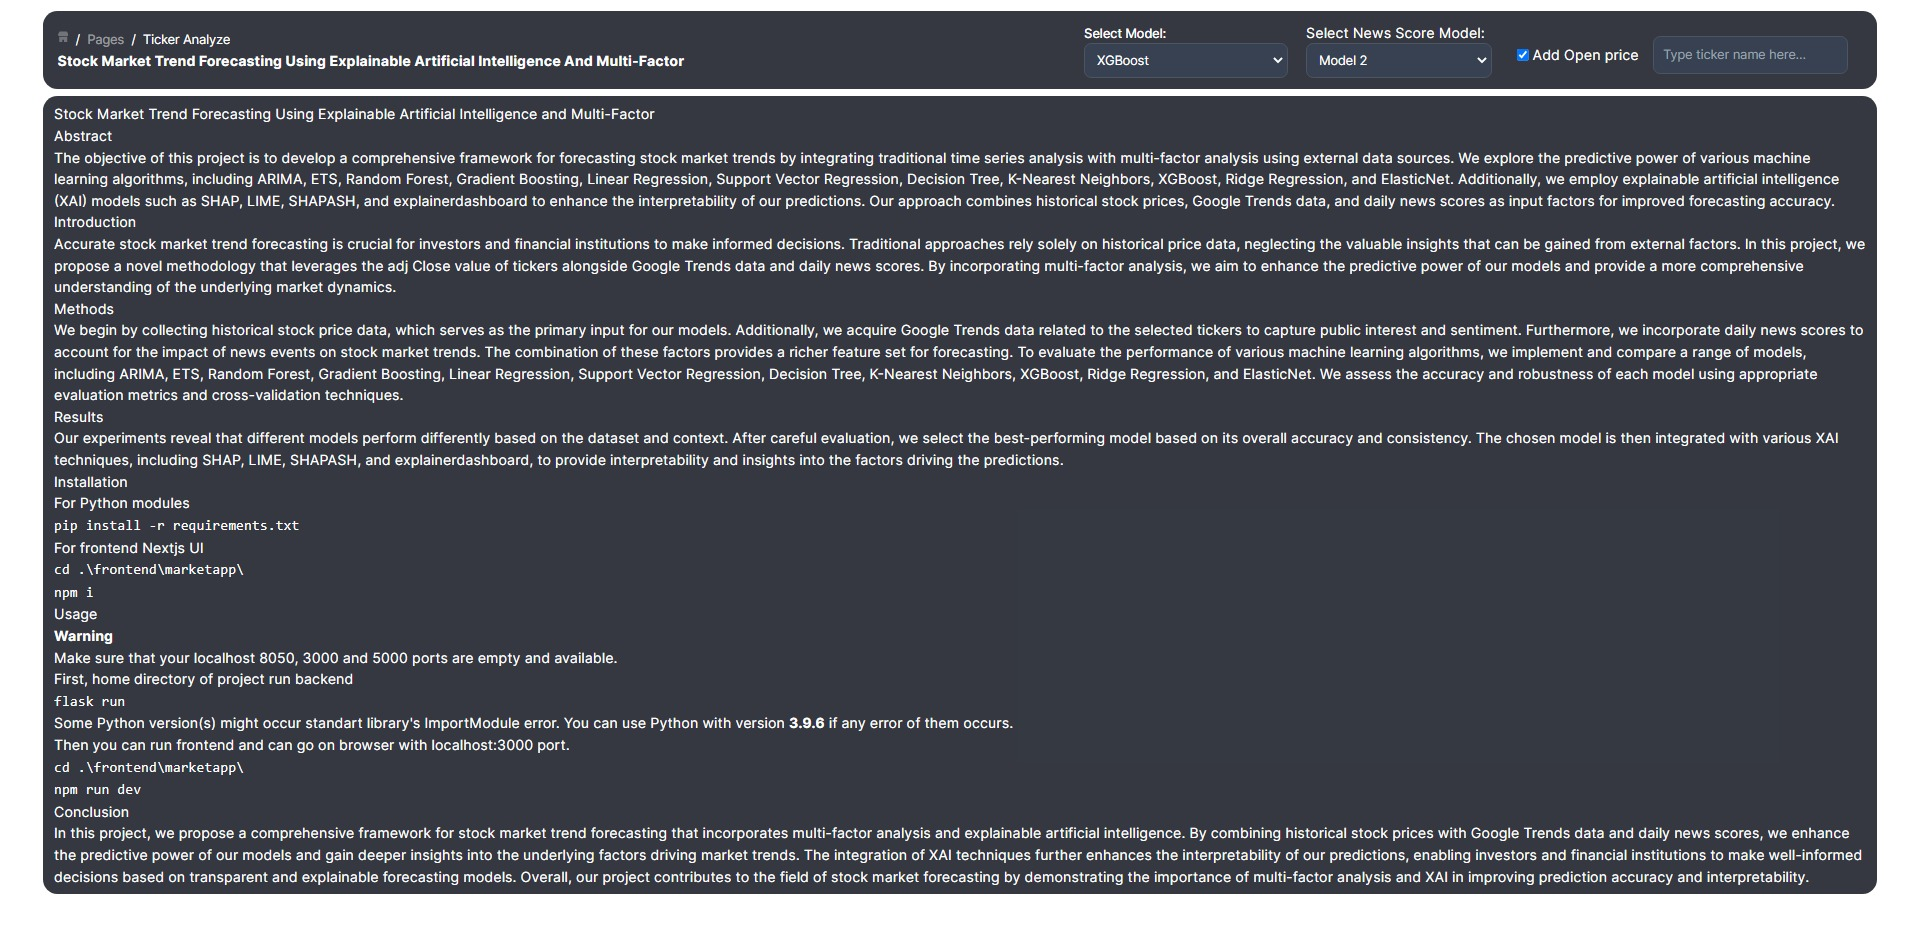
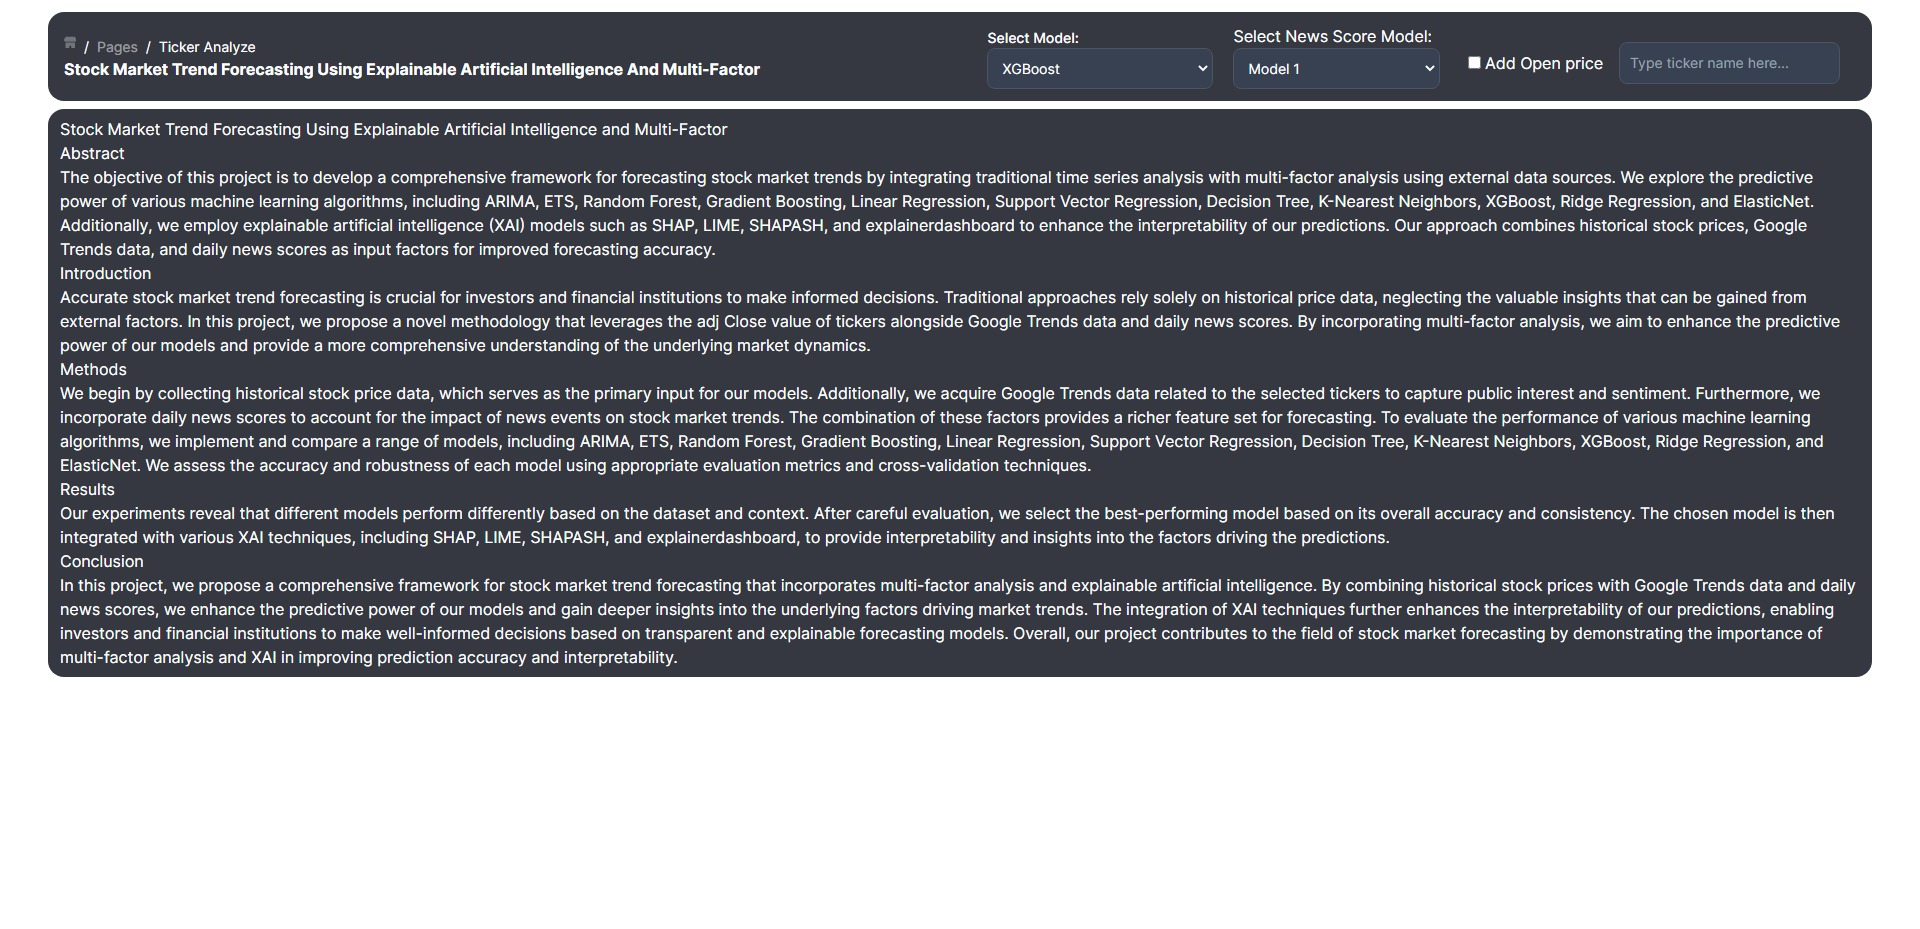
home screen updated

diff --git a/frontend/marketapp/src/app/home.tsx b/frontend/marketapp/src/app/home.tsx
@@ -20,33 +20,7 @@ const Home = () => {
                 To evaluate the performance of various machine learning algorithms, we implement and compare a range of models, including ARIMA, ETS, Random Forest, Gradient Boosting, Linear Regression, Support Vector Regression, Decision Tree, K-Nearest Neighbors, XGBoost, Ridge Regression, and ElasticNet. We assess the accuracy and robustness of each model using appropriate evaluation metrics and cross-validation techniques.</ReactMarkdown>
             <ReactMarkdown>## Results</ReactMarkdown>
             <ReactMarkdown>Our experiments reveal that different models perform differently based on the dataset and context. After careful evaluation, we select the best-performing model based on its overall accuracy and consistency. The chosen model is then integrated with various XAI techniques, including SHAP, LIME, SHAPASH, and explainerdashboard, to provide interpretability and insights into the factors driving the predictions.</ReactMarkdown>
-            <ReactMarkdown>## Installation</ReactMarkdown>
-            <ReactMarkdown>- For Python modules</ReactMarkdown>
-            <ReactMarkdown>```
-                pip install -r requirements.txt
-                ```
-            </ReactMarkdown>
-            <ReactMarkdown>- For frontend Nextjs UI</ReactMarkdown>
-            <ReactMarkdown>```
-                cd .\frontend\marketapp\```</ReactMarkdown><ReactMarkdown>```
-                npm i
-                ```
-            </ReactMarkdown>
-            <ReactMarkdown>## Usage</ReactMarkdown>
-            <ReactMarkdown>**Warning**</ReactMarkdown>
-            <ReactMarkdown>Make sure that your localhost 8050, 3000 and 5000 ports are empty and available.</ReactMarkdown>
-            <ReactMarkdown>- First, home directory of project run backend</ReactMarkdown>
-            <ReactMarkdown>```
-                flask run
-                ```
-            </ReactMarkdown>
-            <ReactMarkdown>Some Python version(s) might occur standart library's ImportModule error. You can use Python with version **3.9.6** if any error of them occurs.</ReactMarkdown>
-            <ReactMarkdown>- Then you can run frontend and can go on browser with localhost:3000 port.</ReactMarkdown>
-            <ReactMarkdown>```
-                cd .\frontend\marketapp\```</ReactMarkdown><ReactMarkdown>```
-                npm run dev
-                ```
-            </ReactMarkdown>
+            
             <ReactMarkdown>## Conclusion</ReactMarkdown>
             <ReactMarkdown>In this project, we propose a comprehensive framework for stock market trend forecasting that incorporates multi-factor analysis and explainable artificial intelligence. By combining historical stock prices with Google Trends data and daily news scores, we enhance the predictive power of our models and gain deeper insights into the underlying factors driving market trends. The integration of XAI techniques further enhances the interpretability of our predictions, enabling investors and financial institutions to make well-informed decisions based on transparent and explainable forecasting models.
 
